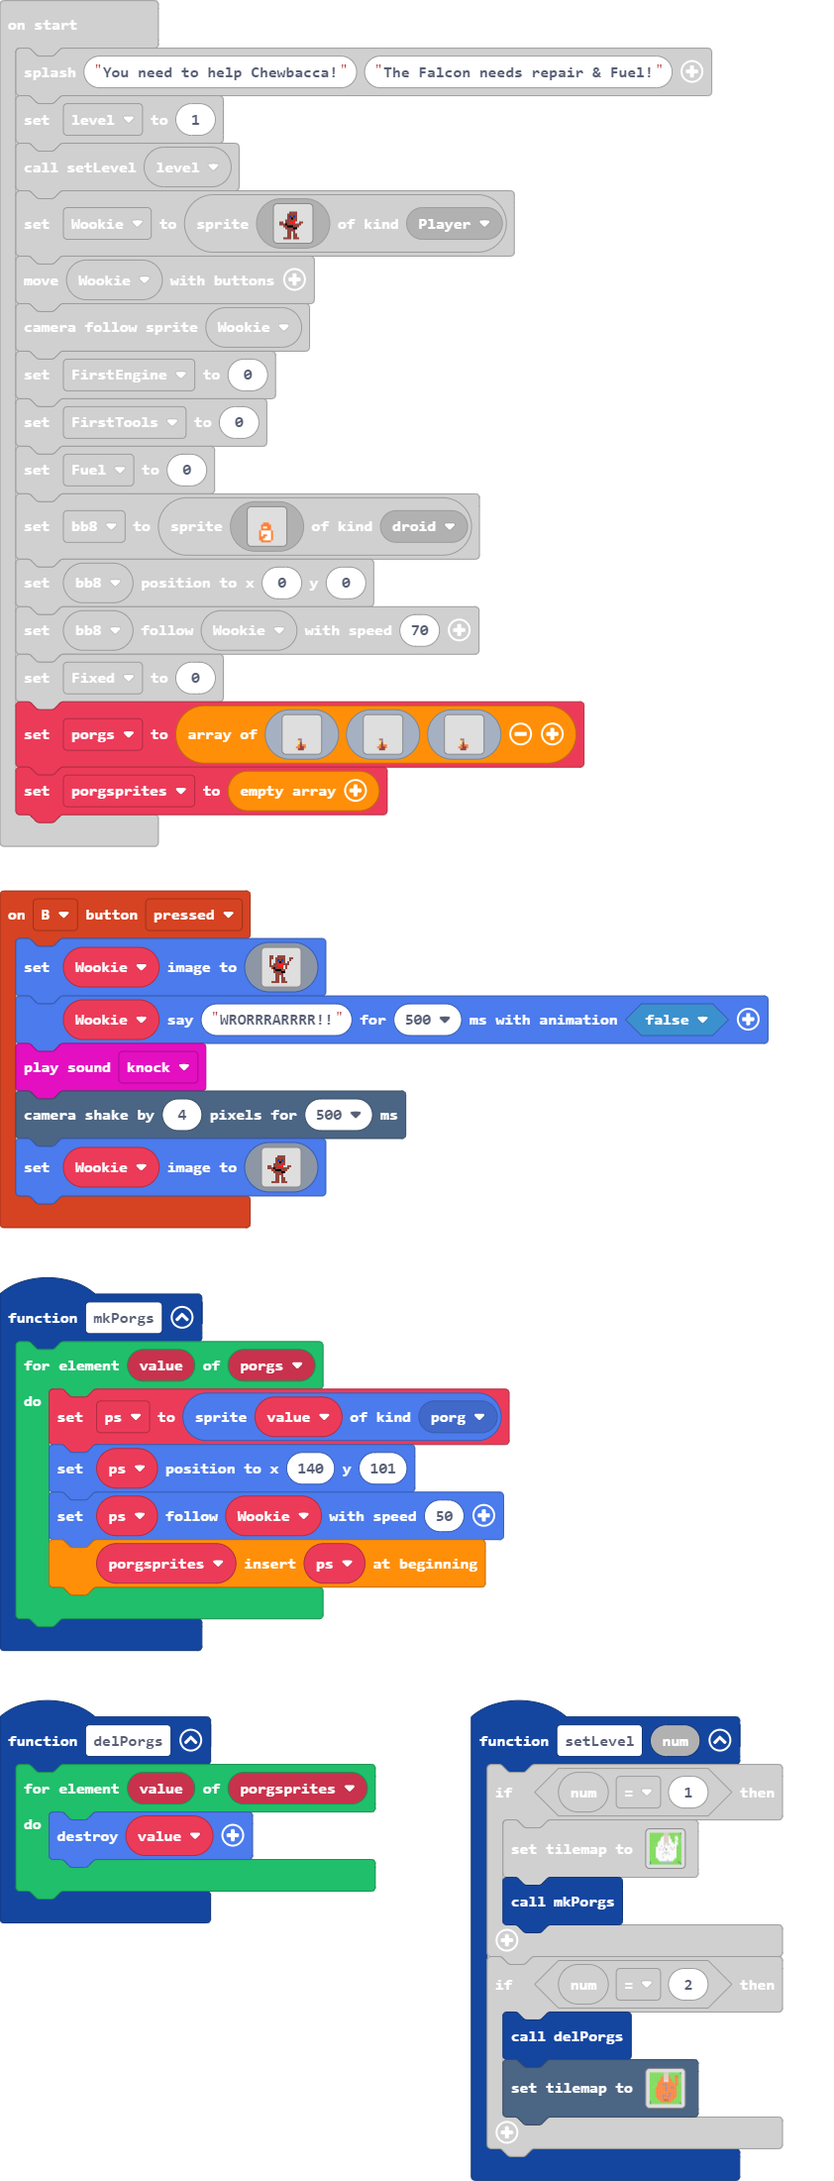
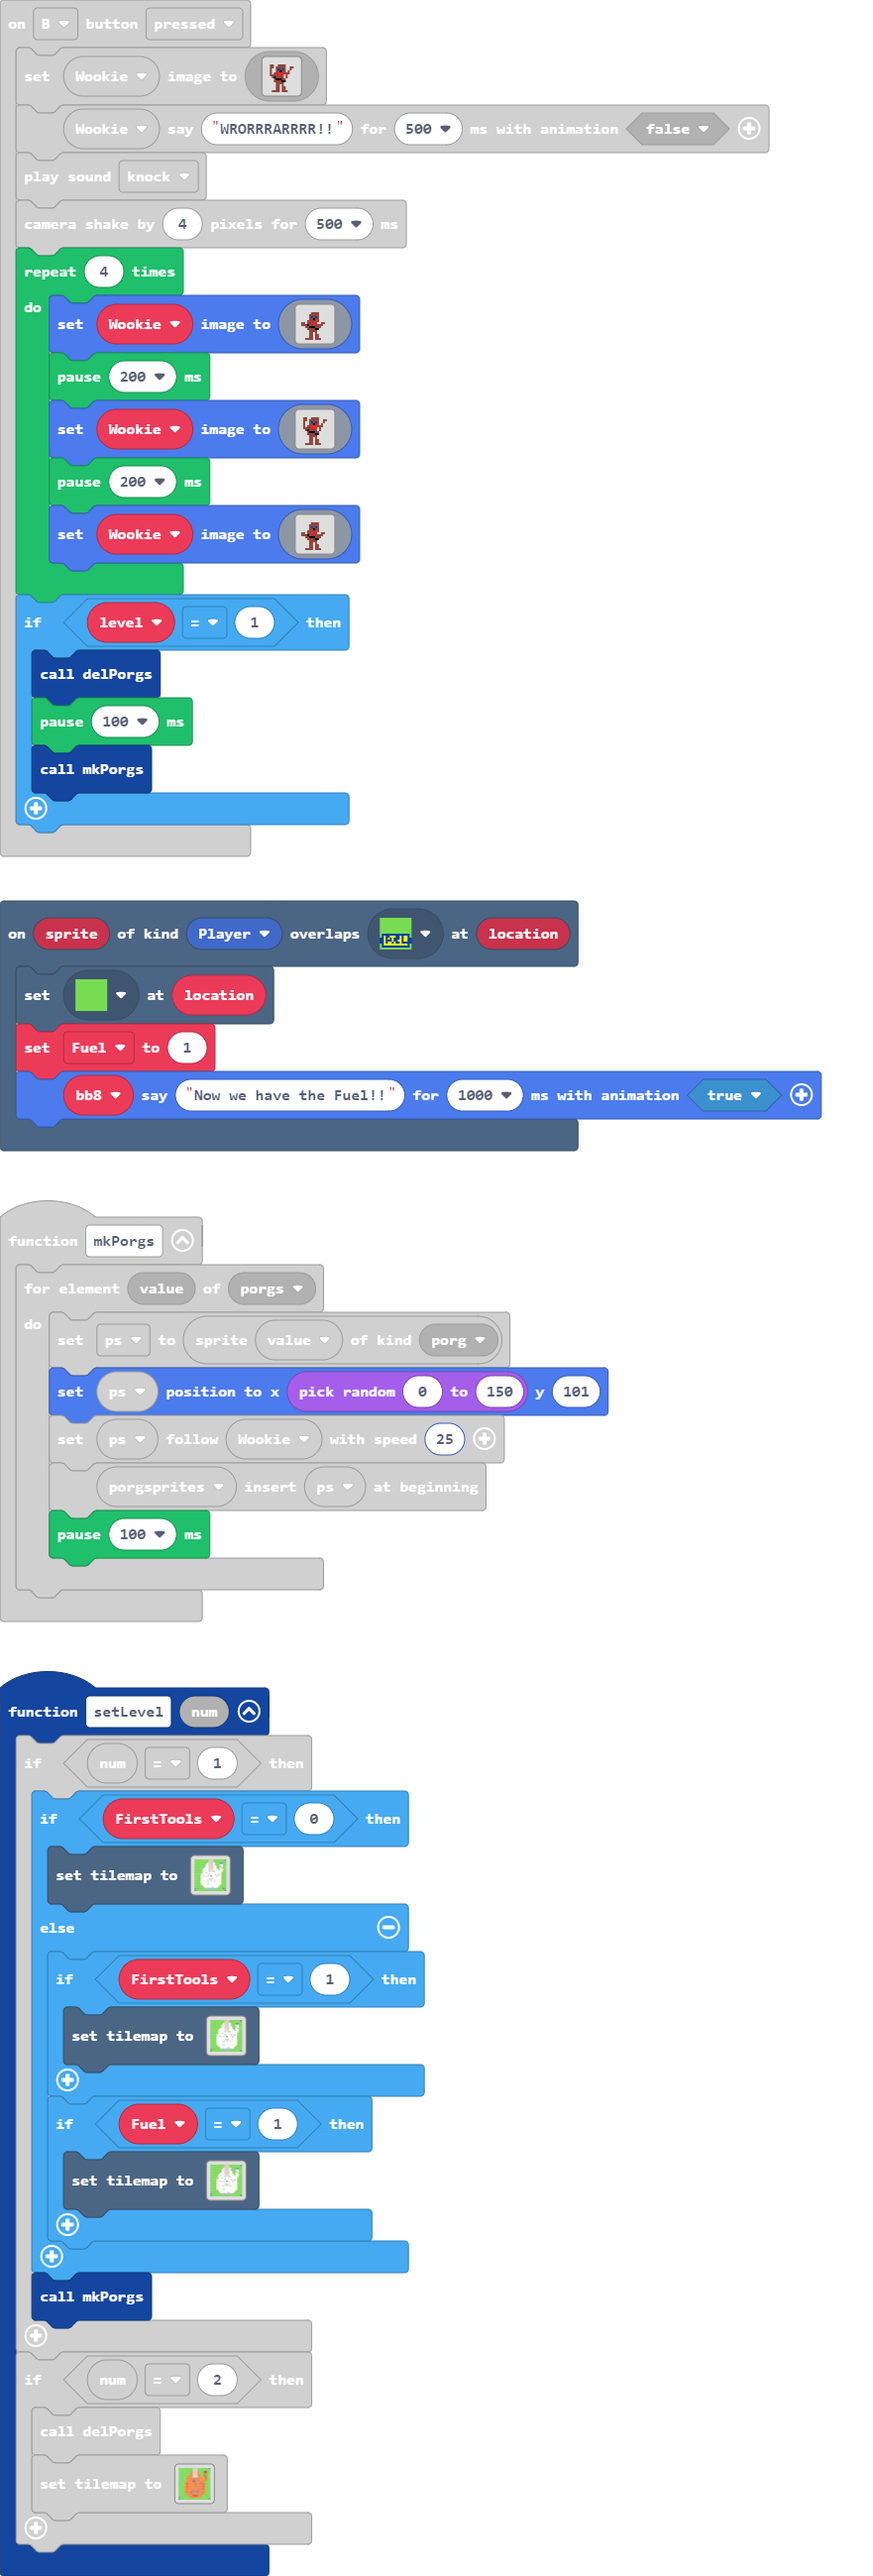
Update main.blocks, main.ts, tilemap.g.jres, tilemap.g.ts

diff --git a/tilemap.g.ts b/tilemap.g.ts
@@ -15,10 +15,6 @@ namespace myTiles {
     //% fixedInstance jres blockIdentity=images._tile
     export const tile7 = image.ofBuffer(hex``);
     //% fixedInstance jres blockIdentity=images._tile
-    export const tile6 = image.ofBuffer(hex``);
-    //% fixedInstance jres blockIdentity=images._tile
-    export const tile9 = image.ofBuffer(hex``);
-    //% fixedInstance jres blockIdentity=images._tile
     export const tile11 = image.ofBuffer(hex``);
     //% fixedInstance jres blockIdentity=images._tile
     export const tile10 = image.ofBuffer(hex``);
@@ -26,8 +22,6 @@ namespace myTiles {
     export const tile12 = image.ofBuffer(hex``);
     //% fixedInstance jres blockIdentity=images._tile
     export const tile13 = image.ofBuffer(hex``);
-    //% fixedInstance jres blockIdentity=images._tile
-    export const tile8 = image.ofBuffer(hex``);
     //% fixedInstance jres blockIdentity=images._tile
     export const tile14 = image.ofBuffer(hex``);
     //% fixedInstance jres blockIdentity=images._tile
@@ -39,10 +33,6 @@ namespace myTiles {
     //% fixedInstance jres blockIdentity=images._tile
     export const tile18 = image.ofBuffer(hex``);
     //% fixedInstance jres blockIdentity=images._tile
-    export const tile19 = image.ofBuffer(hex``);
-    //% fixedInstance jres blockIdentity=images._tile
-    export const tile20 = image.ofBuffer(hex``);
-    //% fixedInstance jres blockIdentity=images._tile
     export const tile21 = image.ofBuffer(hex``);
     //% fixedInstance jres blockIdentity=images._tile
     export const tile22 = image.ofBuffer(hex``);
@@ -50,6 +40,24 @@ namespace myTiles {
     export const tile23 = image.ofBuffer(hex``);
     //% fixedInstance jres blockIdentity=images._tile
     export const tile24 = image.ofBuffer(hex``);
+    //% fixedInstance jres blockIdentity=images._tile
+    export const tile6 = image.ofBuffer(hex``);
+    //% fixedInstance jres blockIdentity=images._tile
+    export const tile8 = image.ofBuffer(hex``);
+    //% fixedInstance jres blockIdentity=images._tile
+    export const tile9 = image.ofBuffer(hex``);
+    //% fixedInstance jres blockIdentity=images._tile
+    export const tile20 = image.ofBuffer(hex``);
+    //% fixedInstance jres blockIdentity=images._tile
+    export const tile19 = image.ofBuffer(hex``);
+    //% fixedInstance jres blockIdentity=images._tile
+    export const tile25 = image.ofBuffer(hex``);
+    //% fixedInstance jres blockIdentity=images._tile
+    export const tile26 = image.ofBuffer(hex``);
+    //% fixedInstance jres blockIdentity=images._tile
+    export const tile27 = image.ofBuffer(hex``);
+    //% fixedInstance jres blockIdentity=images._tile
+    export const tile28 = image.ofBuffer(hex``);
 
     helpers._registerFactory("tilemap", function(name: string) {
         switch(helpers.stringTrim(name)) {
@@ -73,7 +81,7 @@ namespace myTiles {
 . . . . . . . . . . . . . . . . 
 `, [myTiles.transparency16], TileScale.Sixteen);
             case "level2":
[2 lines of base64/hex data omitted]
 ....................
 ...............2222.
 ........2...2..2..2.
@@ -94,9 +102,9 @@ namespace myTiles {
 ......22.....22.....
 .......2222222......
 ....................
-`, [myTiles.transparency16,myTiles.tile2,sprites.castle.tileGrass1,sprites.castle.tileGrass2,sprites.builtin.forestTiles4,sprites.castle.tilePath5,sprites.castle.tilePath2,myTiles.tile13,myTiles.tile1,myTiles.tile18,myTiles.tile19,myTiles.tile20,myTiles.tile22,myTiles.tile23], TileScale.Sixteen);
+`, [myTiles.transparency16,myTiles.tile2,sprites.castle.tileGrass1,sprites.castle.tileGrass2,sprites.builtin.forestTiles4,sprites.castle.tilePath5,sprites.castle.tilePath2,myTiles.tile13,myTiles.tile1,myTiles.tile18,myTiles.tile19,myTiles.tile20,myTiles.tile22,myTiles.tile23,myTiles.tile25,myTiles.tile26,myTiles.tile27], TileScale.Sixteen);
             case "level1":
[2 lines of base64/hex data omitted]
 ....................
 ....................
 ........2...2...22..
@@ -117,7 +125,91 @@ namespace myTiles {
 ......22.....22.....
 .......2222222......
 ....................
-`, [myTiles.transparency16,myTiles.tile2,myTiles.tile5,sprites.castle.tileGrass1,sprites.castle.tileGrass2,sprites.builtin.forestTiles4,sprites.castle.tilePath5,sprites.castle.tilePath2,myTiles.tile12,myTiles.tile9,myTiles.tile8,myTiles.tile11,myTiles.tile14,myTiles.tile15,myTiles.tile16,myTiles.tile21,myTiles.tile24], TileScale.Sixteen);
+`, [myTiles.transparency16,myTiles.tile2,myTiles.tile5,sprites.castle.tileGrass1,sprites.castle.tileGrass2,sprites.builtin.forestTiles4,sprites.castle.tilePath5,sprites.castle.tilePath2,myTiles.tile12,myTiles.tile9,myTiles.tile8,myTiles.tile11,myTiles.tile14,myTiles.tile15,myTiles.tile16,myTiles.tile21,myTiles.tile24,myTiles.tile28], TileScale.Sixteen);
+            case "level5":
+            case "level5":return tiles.createTilemap(hex`1000100000000000000000000000000000000000000000000000000000000000000000000000000000000000000000000000000000000000000000000000000000000000000000000000000000000000000000000000000000000000000000000000000000000000000000000000000000000000000000000000000000000000000000000000000000000000000000000000000000000000000000000000000000000000000000000000000000000000000000000000000000000000000000000000000000000000000000000000000000000000000000000000000000000000000000000000000000000000000000000000000000000000000000000000000000000000`, img`
+. . . . . . . . . . . . . . . . 
+. . . . . . . . . . . . . . . . 
+. . . . . . . . . . . . . . . . 
+. . . . . . . . . . . . . . . . 
+. . . . . . . . . . . . . . . . 
+. . . . . . . . . . . . . . . . 
+. . . . . . . . . . . . . . . . 
+. . . . . . . . . . . . . . . . 
+. . . . . . . . . . . . . . . . 
+. . . . . . . . . . . . . . . . 
+. . . . . . . . . . . . . . . . 
+. . . . . . . . . . . . . . . . 
+. . . . . . . . . . . . . . . . 
+. . . . . . . . . . . . . . . . 
+. . . . . . . . . . . . . . . . 
+. . . . . . . . . . . . . . . . 
+`, [myTiles.transparency16], TileScale.Sixteen);
+            case "NoTool":
[1 lines of base64/hex data omitted]
+....................
+....................
+........2...2...22..
+.......22...2...22..
+.......22...22..22..
+......222...22..22..
+.....2222...222.22..
+.....2...222..2222..
+.....2..........2...
+....2...........2...
+....2...........2...
+....2...........2...
+....2...........2...
+....2...........2...
+....2...........2...
+....22.........22...
+.....2........22....
+......22.....22.....
+.......2222222......
+....................
+`, [myTiles.transparency16,myTiles.tile2,myTiles.tile5,sprites.castle.tileGrass1,sprites.castle.tileGrass2,sprites.builtin.forestTiles4,sprites.castle.tilePath5,sprites.castle.tilePath2,myTiles.tile12,myTiles.tile9,myTiles.tile8,myTiles.tile11,myTiles.tile14,myTiles.tile15,myTiles.tile16,myTiles.tile21,myTiles.tile28], TileScale.Sixteen);
+            case "level6":
+            case "level6":return tiles.createTilemap(hex`1000100000000000000000000000000000000000000000000000000000000000000000000000000000000000000000000000000000000000000000000000000000000000000000000000000000000000000000000000000000000000000000000000000000000000000000000000000000000000000000000000000000000000000000000000000000000000000000000000000000000000000000000000000000000000000000000000000000000000000000000000000000000000000000000000000000000000000000000000000000000000000000000000000000000000000000000000000000000000000000000000000000000000000000000000000000000000`, img`
+. . . . . . . . . . . . . . . . 
+. . . . . . . . . . . . . . . . 
+. . . . . . . . . . . . . . . . 
+. . . . . . . . . . . . . . . . 
+. . . . . . . . . . . . . . . . 
+. . . . . . . . . . . . . . . . 
+. . . . . . . . . . . . . . . . 
+. . . . . . . . . . . . . . . . 
+. . . . . . . . . . . . . . . . 
+. . . . . . . . . . . . . . . . 
+. . . . . . . . . . . . . . . . 
+. . . . . . . . . . . . . . . . 
+. . . . . . . . . . . . . . . . 
+. . . . . . . . . . . . . . . . 
+. . . . . . . . . . . . . . . . 
+. . . . . . . . . . . . . . . . 
+`, [myTiles.transparency16], TileScale.Sixteen);
+            case "NoFuel":
[1 lines of base64/hex data omitted]
+....................
+....................
+........2...2...22..
+.......22...2...22..
+.......22...22..22..
+......222...22..22..
+.....2222...222.22..
+.....2...222..2222..
+.....2..........2...
+....2...........2...
+....2...........2...
+....2...........2...
+....2...........2...
+....2...........2...
+....2...........2...
+....22.........22...
+.....2........22....
+......22.....22.....
+.......2222222......
+....................
+`, [myTiles.transparency16,myTiles.tile2,myTiles.tile5,sprites.castle.tileGrass1,sprites.castle.tileGrass2,sprites.builtin.forestTiles4,sprites.castle.tilePath5,sprites.castle.tilePath2,myTiles.tile12,myTiles.tile9,myTiles.tile8,myTiles.tile11,myTiles.tile14,myTiles.tile15,myTiles.tile16,myTiles.tile21], TileScale.Sixteen);
         }
         return null;
     })
@@ -137,10 +229,6 @@ namespace myTiles {
             case "tile5":return tile5;
             case "myTile5":
             case "tile7":return tile7;
-            case "myTile4":
-            case "tile6":return tile6;
-            case "myTile7":
-            case "tile9":return tile9;
             case "myTile9":
             case "tile11":return tile11;
             case "myTile8":
@@ -149,8 +237,6 @@ namespace myTiles {
             case "tile12":return tile12;
             case "exit":
             case "tile13":return tile13;
-            case "myTile6":
-            case "tile8":return tile8;
             case "myTile10":
             case "tile14":return tile14;
             case "myTile12":
@@ -161,10 +247,6 @@ namespace myTiles {
             case "tile17":return tile17;
             case "myTile14":
             case "tile18":return tile18;
-            case "myTile15":
-            case "tile19":return tile19;
-            case "myTile16":
-            case "tile20":return tile20;
             case "myTile17":
             case "tile21":return tile21;
             case "myTile18":
@@ -173,6 +255,24 @@ namespace myTiles {
             case "tile23":return tile23;
             case "myTile19":
             case "tile24":return tile24;
+            case "myTile4":
+            case "tile6":return tile6;
+            case "myTile6":
+            case "tile8":return tile8;
+            case "myTile7":
+            case "tile9":return tile9;
+            case "myTile16":
+            case "tile20":return tile20;
+            case "myTile15":
+            case "tile19":return tile19;
+            case "Holochess":
+            case "tile25":return tile25;
+            case "myTile20":
+            case "tile26":return tile26;
+            case "myTile21":
+            case "tile27":return tile27;
+            case "myTile22":
+            case "tile28":return tile28;
         }
         return null;
     })

diff --git a/main.ts b/main.ts
@@ -4,7 +4,16 @@ namespace SpriteKind {
 }
 function setLevel (num: number) {
     if (num == 1) {
-        tiles.setTilemap(tilemap`level1`)
+        if (FirstTools == 0) {
+            tiles.setTilemap(tilemap`level1`)
+        } else {
+            if (FirstTools == 1) {
+                tiles.setTilemap(tilemap`NoTool`)
+            }
+            if (Fuel == 1) {
+                tiles.setTilemap(tilemap`NoFuel`)
+            }
+        }
         mkPorgs()
     }
     if (num == 2) {
@@ -31,7 +40,18 @@ controller.B.onEvent(ControllerButtonEvent.Pressed, function () {
     Wookie.sayText("WRORRRARRRR!!", 500, false)
     music.knock.play()
     scene.cameraShake(4, 500)
-    Wookie.setImage(assets.image`Chewbacca`)
+    for (let index = 0; index < 4; index++) {
+        Wookie.setImage(assets.image`Chewbacca`)
+        pause(200)
+        Wookie.setImage(assets.image`Chewbacca0`)
+        pause(200)
+        Wookie.setImage(assets.image`Chewbacca`)
+    }
+    if (level == 1) {
+        delPorgs()
+        pause(100)
+        mkPorgs()
+    }
 })
 scene.onOverlapTile(SpriteKind.Player, assets.tile`myTile15`, function (sprite, location) {
     if (0 == Fixed) {
@@ -43,6 +63,11 @@ scene.onOverlapTile(SpriteKind.Player, assets.tile`myTile15`, function (sprite, 
             bb8.sayText("Now we can go!", 1000, true)
         }
     }
+})
+scene.onOverlapTile(SpriteKind.Player, assets.tile`myTile22`, function (sprite, location) {
+    tiles.setTileAt(location, assets.tile`myTile0`)
+    Fuel = 1
+    bb8.sayText("Now we have the Fuel!!", 1000, true)
 })
 controller.A.onEvent(ControllerButtonEvent.Pressed, function () {
     if (Wookie.tileKindAt(TileDirection.Bottom, assets.tile`engine`)) {
@@ -71,9 +96,10 @@ scene.onOverlapTile(SpriteKind.Player, assets.tile`entry`, function (sprite, loc
 function mkPorgs () {
     for (let value of porgs) {
         ps = sprites.create(value, SpriteKind.porg)
-        ps.setPosition(140, 101)
-        ps.follow(Wookie, 50)
+        ps.setPosition(randint(0, 150), 101)
+        ps.follow(Wookie, 25)
         porgsprites.unshift(ps)
+        pause(100)
     }
 }
 scene.onOverlapTile(SpriteKind.Player, assets.tile`exit`, function (sprite, location) {
@@ -95,8 +121,9 @@ let Fuel = 0
 let FirstTools = 0
 let FirstEngine = 0
 let Wookie: Sprite = null
+let level = 0
 game.splash("You need to help Chewbacca!", "The Falcon needs repair & Fuel!")
-let level = 1
+level = 1
 setLevel(level)
 Wookie = sprites.create(assets.image`Chewbacca`, SpriteKind.Player)
 controller.moveSprite(Wookie)
